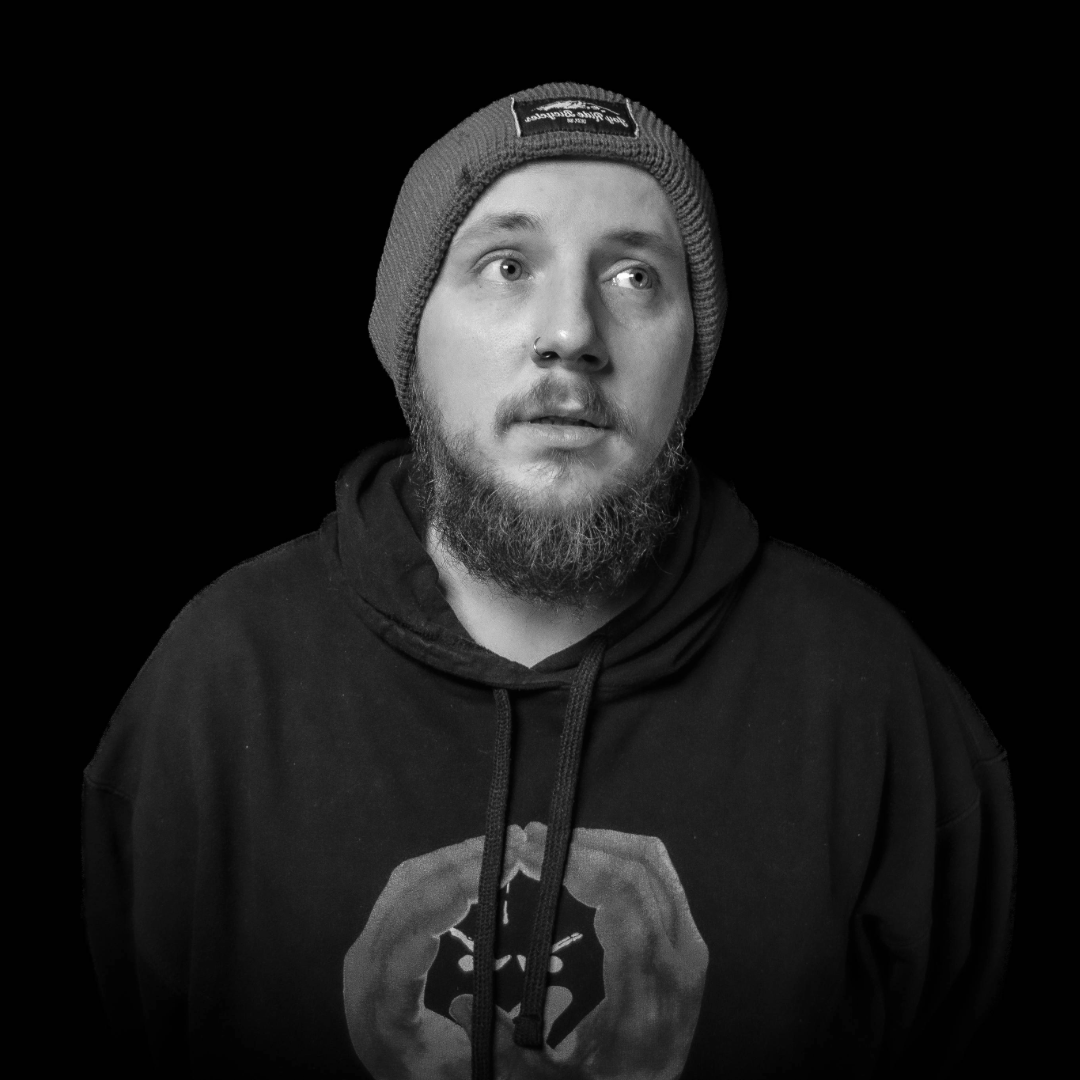
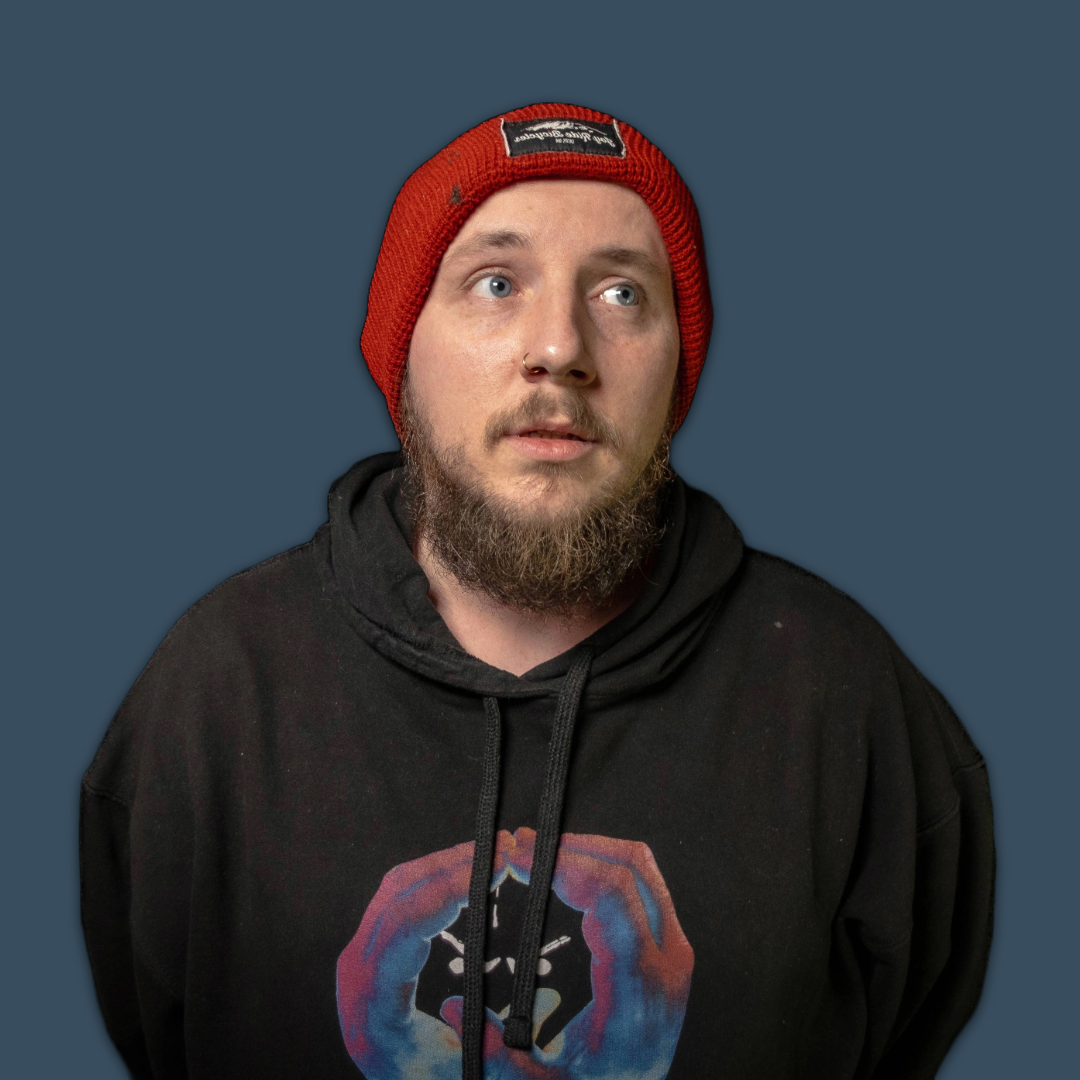
Add team member roles and descriptions to About sectionfaf

diff --git a/client/src/components/About.tsx b/client/src/components/About.tsx
@@ -1,6 +1,11 @@
 import { motion } from "framer-motion";
 import { Film, Handshake, Mic2, Sparkles } from "lucide-react";
 
+import brendanPhoto from "@assets/generated_images/brendan.png";
+import josephPhoto from "@assets/generated_images/joseph.jpg";
+import kylePhoto from "@assets/generated_images/kyle.png";
+import samPhoto from "@assets/generated_images/sam.png";
+
 const pillars = [
   {
     title: "Production & Ops",
@@ -29,10 +34,10 @@ const pillars = [
 ];
 
 const teamMembers = [
-  { name: "Kyle Mixon" },
-  { name: "Joseph Humphrey" },
-  { name: "Brendan Meeks" },
-  { name: "Samuel Tweed" },
+  { name: "Kyle Mixon", photo: kylePhoto },
+  { name: "Joseph Humphrey", photo: josephPhoto },
+  { name: "Brendan Meeks", photo: brendanPhoto },
+  { name: "Samuel Tweed", photo: samPhoto },
 ];
 
 export default function About() {
@@ -99,11 +104,14 @@ export default function About() {
                 className="group"
               >
                 <div className="relative overflow-hidden rounded-xl aspect-square mb-4 border-2 border-transparent group-hover:border-primary transition-colors">
-                  <div className="absolute inset-0 bg-primary/15 opacity-0 group-hover:opacity-100 transition-opacity z-10 mix-blend-overlay" />
+                <div className="absolute inset-0 bg-gradient-to-b from-transparent via-background/10 to-background/60 opacity-0 group-hover:opacity-100 transition-opacity z-10" />
 
-                  <div className="w-full h-full bg-gradient-to-br from-primary/15 via-background to-background flex items-center justify-center text-white/70 uppercase tracking-wide font-display text-lg">
-                    Photo Coming Soon
-                  </div>
+                  <img
+                    src={member.photo}
+                    alt={member.name}
+                    className="w-full h-full object-cover"
+                    loading="lazy"
+                  />
                 </div>
 
                 <div className="text-center">
